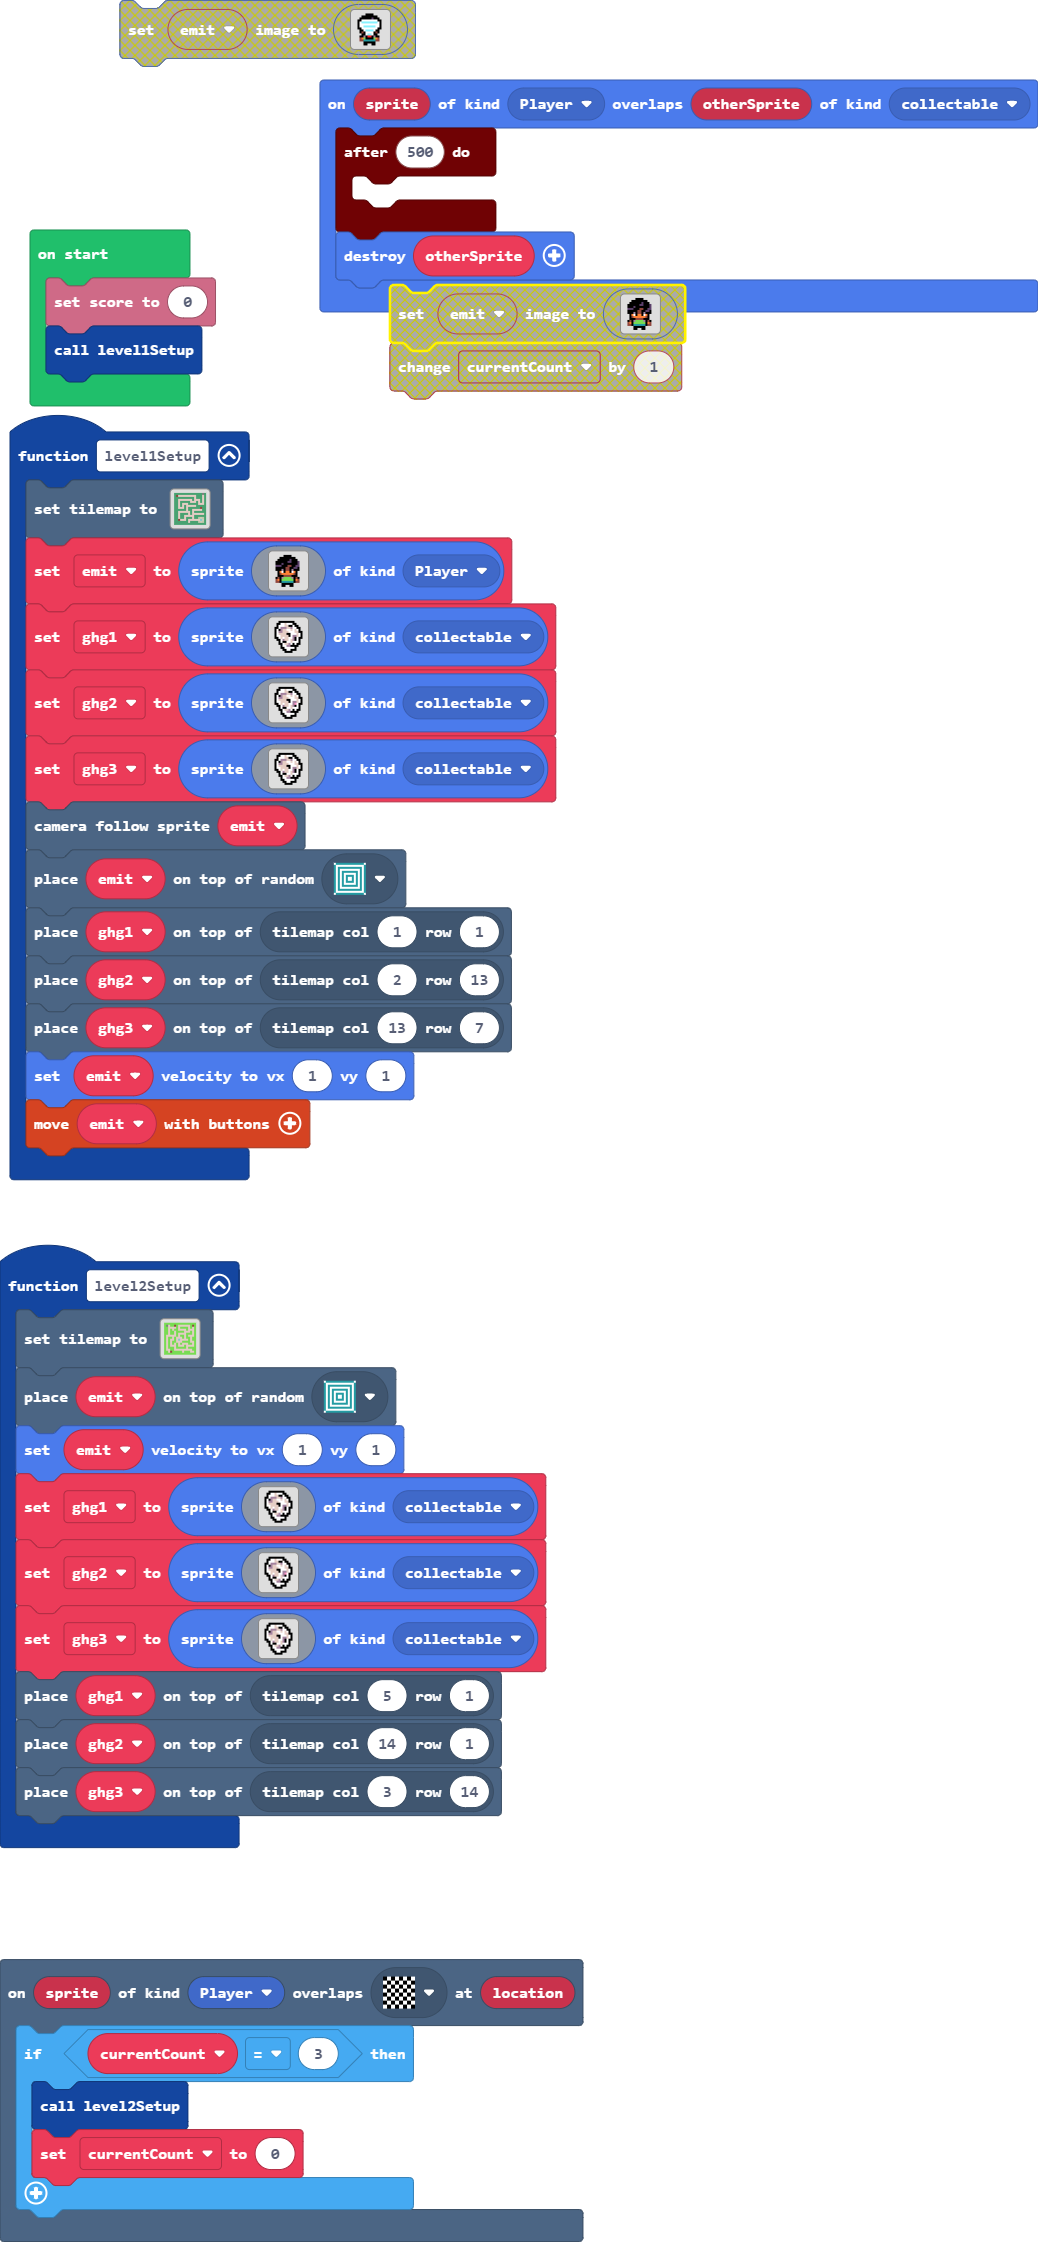
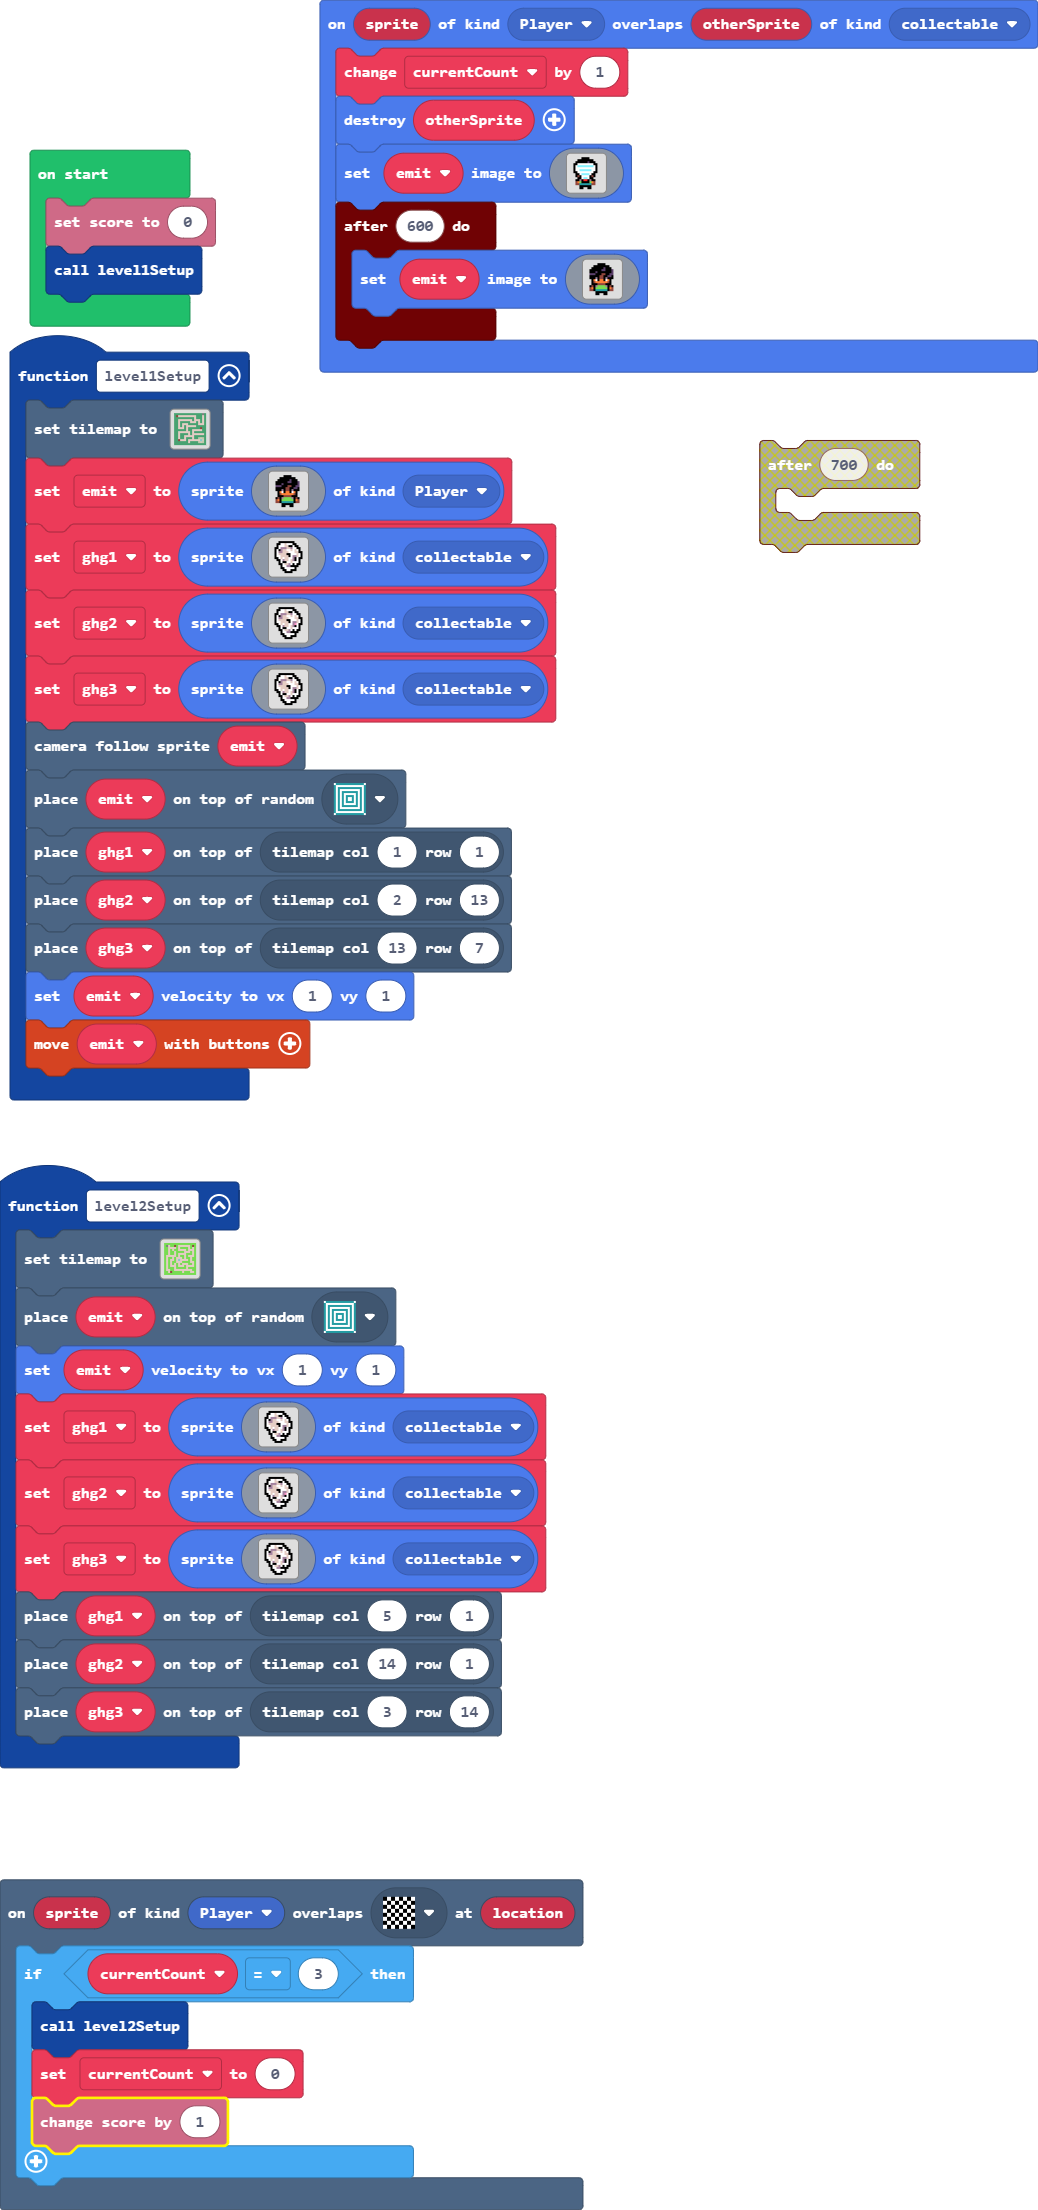
Update main.blocks, main.ts

diff --git a/main.ts b/main.ts
@@ -16,6 +16,7 @@ scene.onOverlapTile(SpriteKind.Player, assets.tile`end-tile`, function (sprite, 
     if (currentCount == 3) {
         level2Setup()
         currentCount = 0
+        info.changeScoreBy(1)
     }
 })
 function level1Setup () {
@@ -33,10 +34,12 @@ function level1Setup () {
     controller.moveSprite(emit)
 }
 sprites.onOverlap(SpriteKind.Player, SpriteKind.collectable, function (sprite, otherSprite) {
-    timer.after(500, function () {
-    	
-    })
+    currentCount += 1
     otherSprite.destroy()
+    emit.setImage(assets.image`gasTrap`)
+    timer.after(600, function () {
+        emit.setImage(assets.image`myImage`)
+    })
 })
 let currentCount = 0
 let ghg3: Sprite = null
